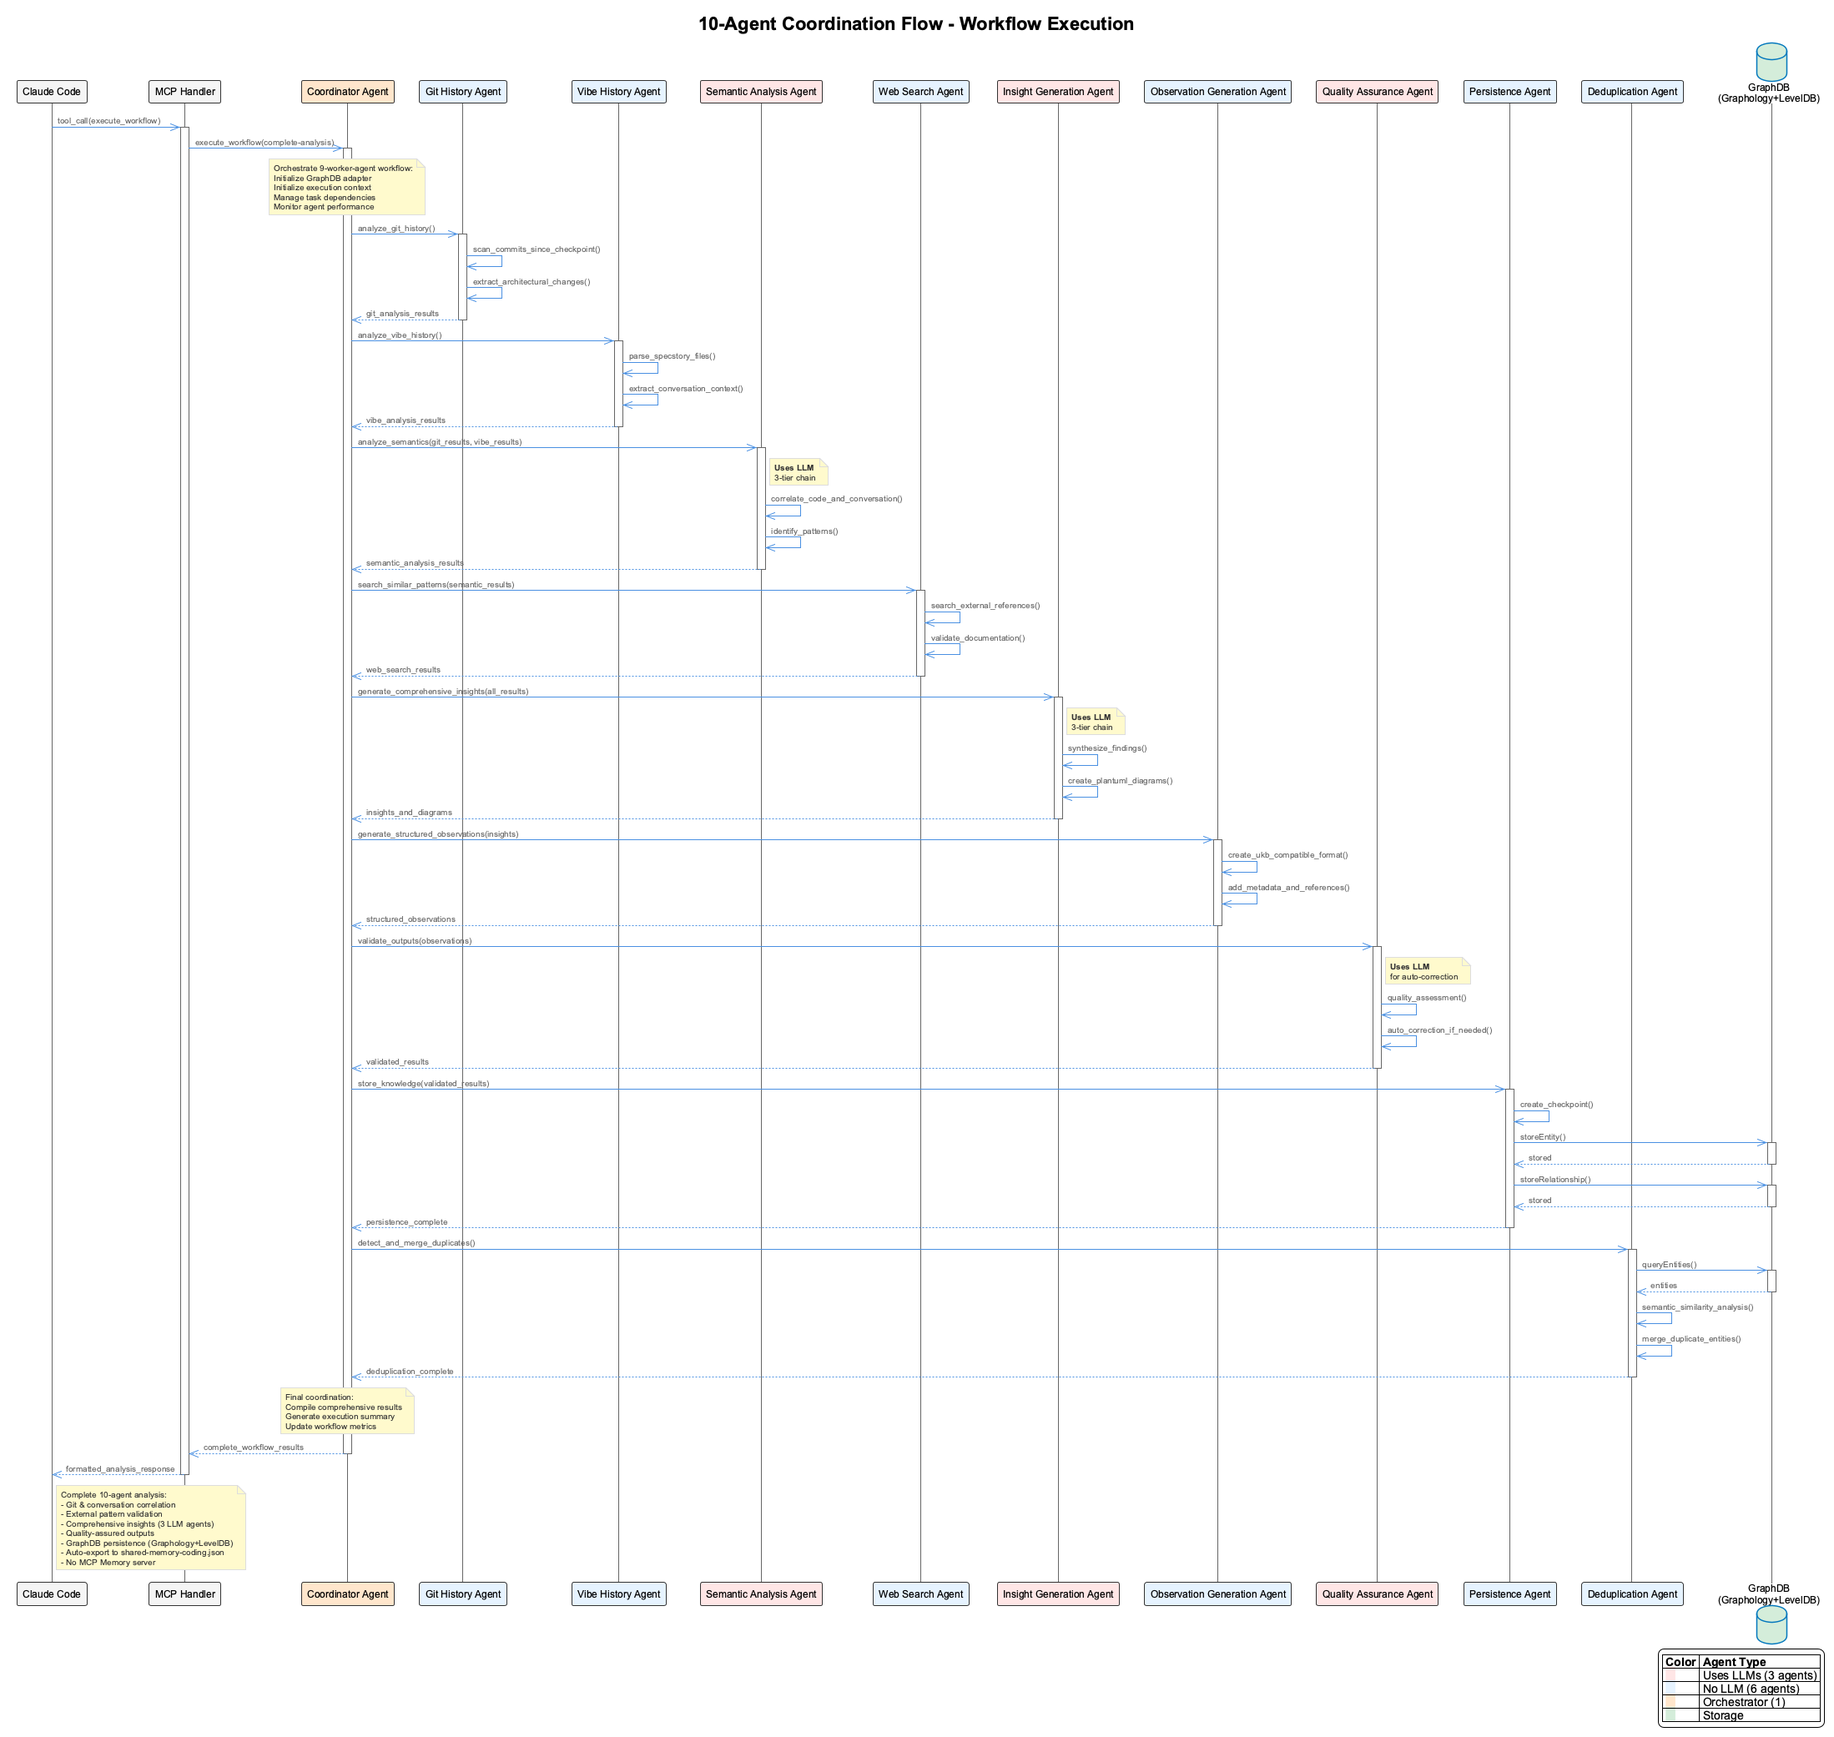
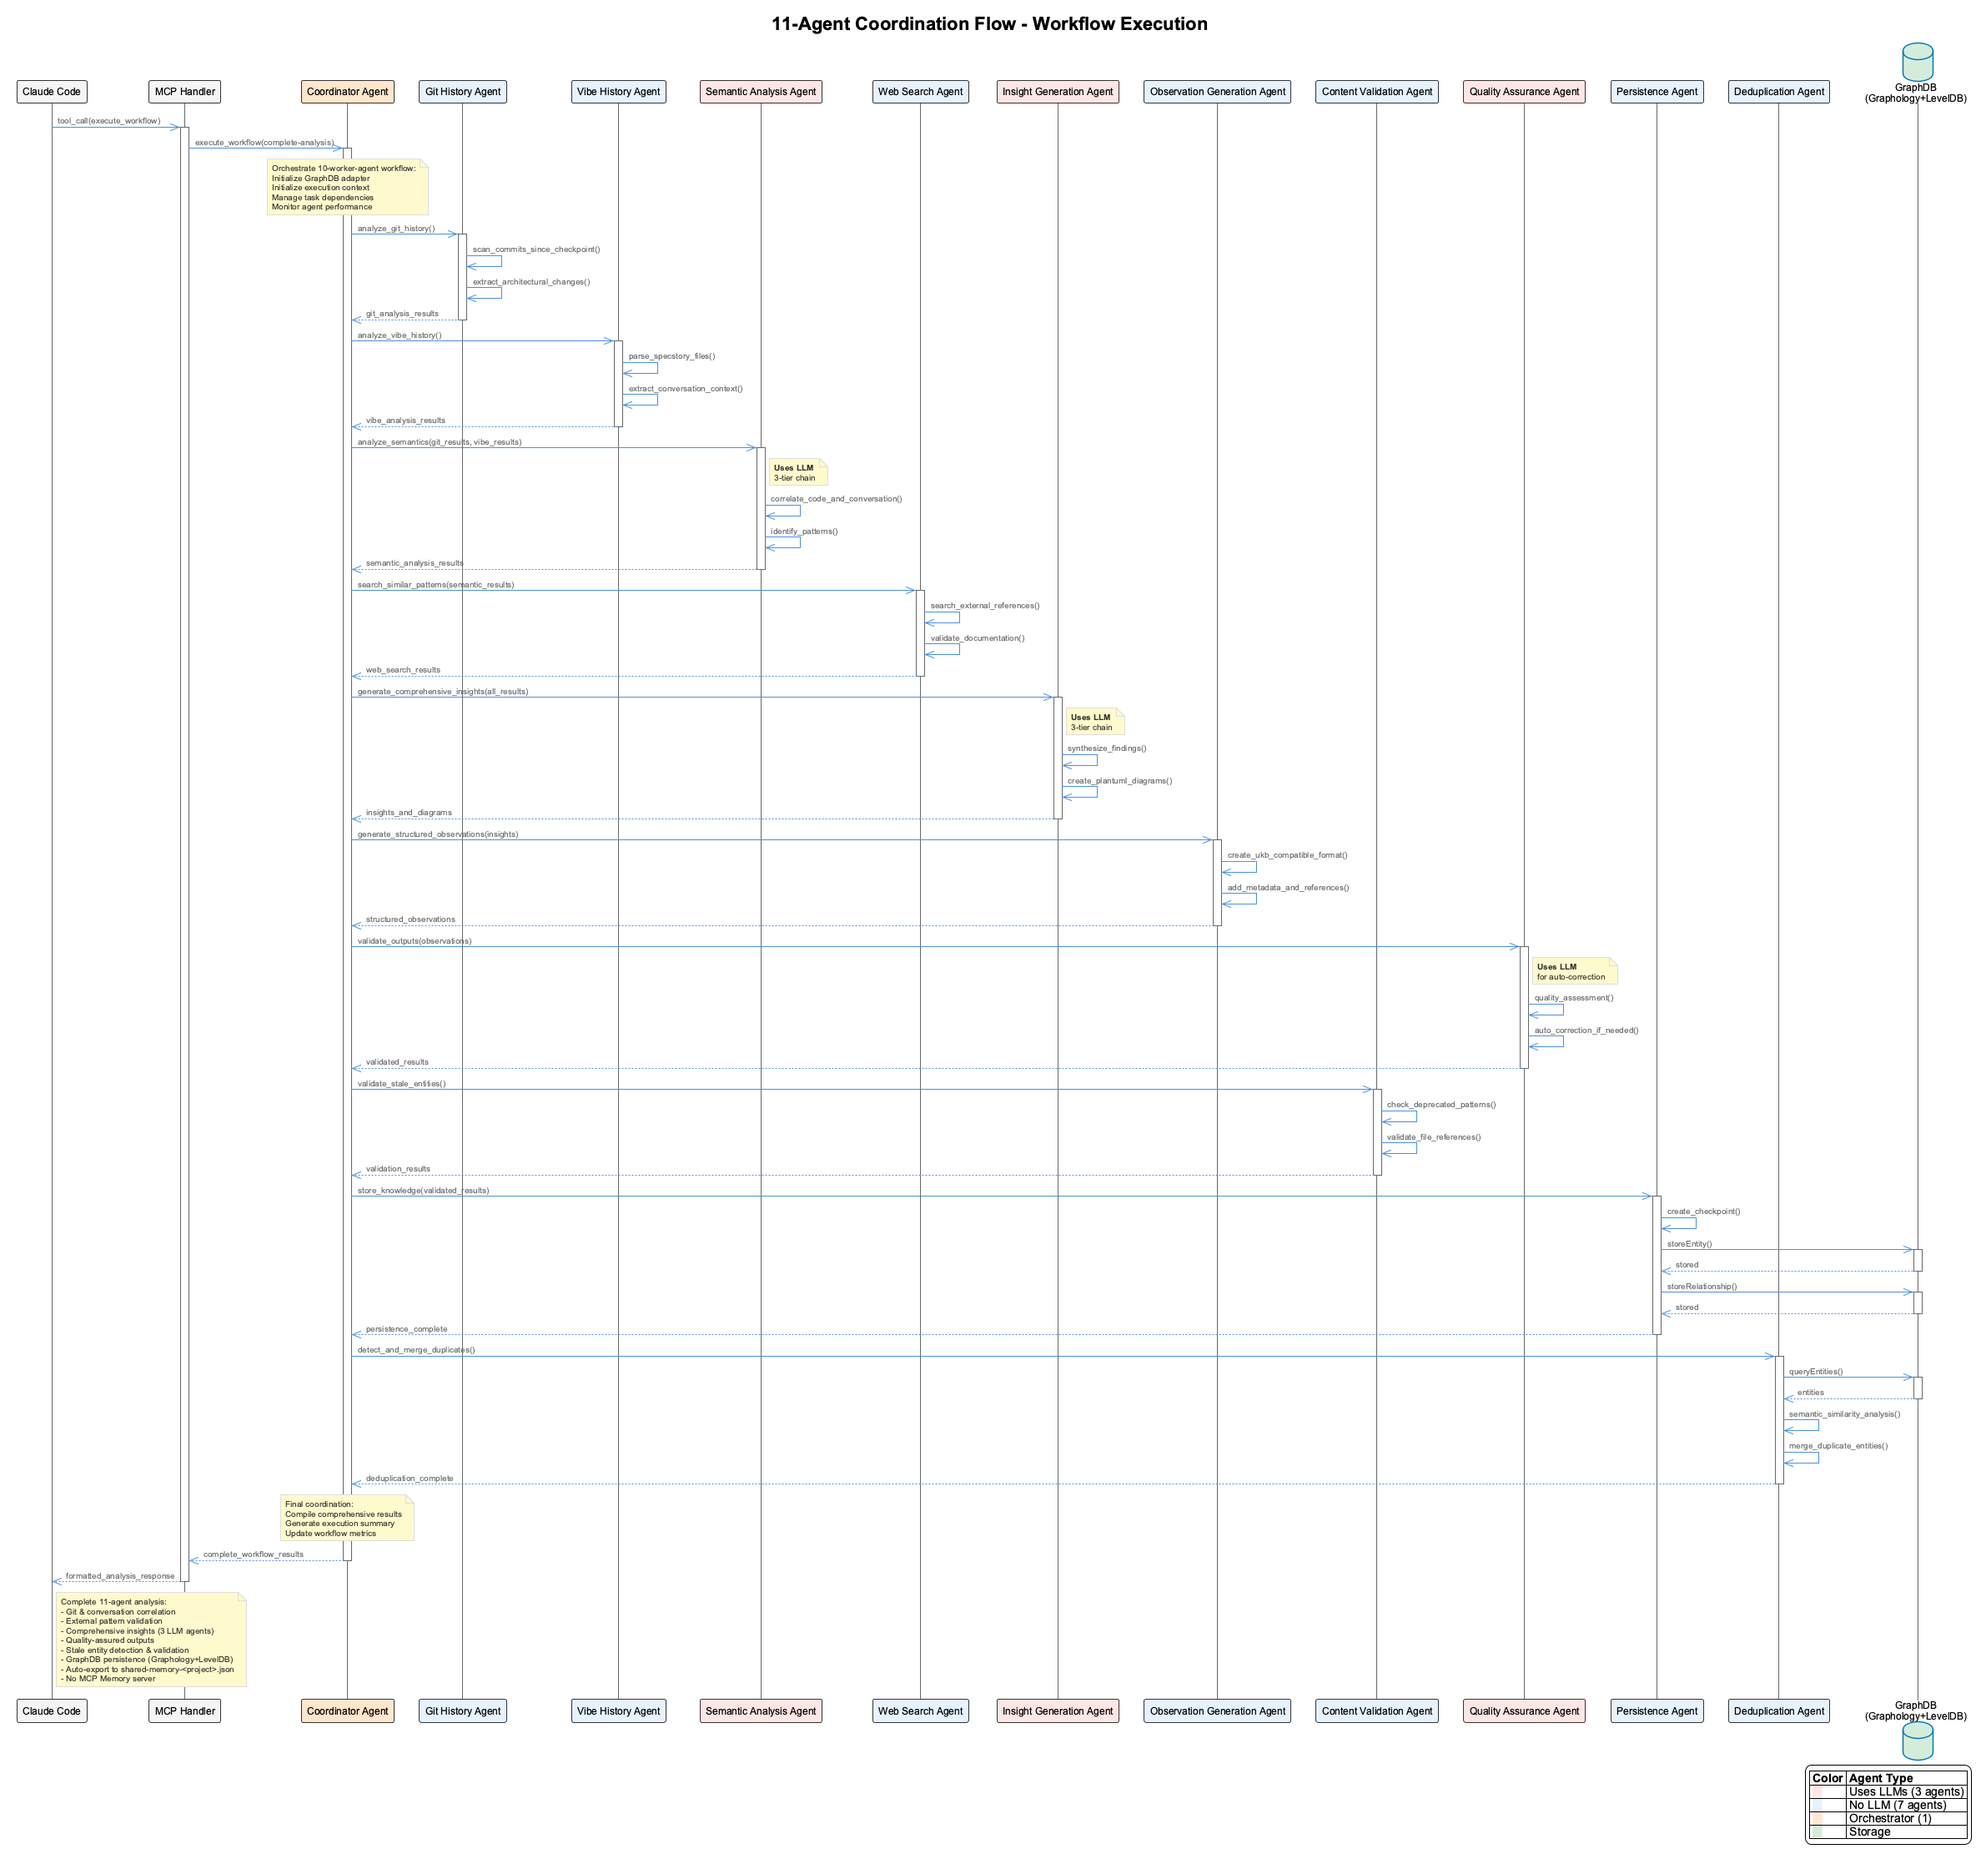
docs: updated

diff --git a/README.md b/README.md
@@ -4,9 +4,9 @@
 
 ## Overview
 
-This MCP server integrates seamlessly with Claude Code to provide advanced semantic analysis capabilities. Built entirely in Node.js with TypeScript, it offers **12 specialized tools** and **10 intelligent agents** with **Graphology+LevelDB graph database** persistence for comprehensive code and knowledge analysis.
+This MCP server integrates seamlessly with Claude Code to provide advanced semantic analysis capabilities. Built entirely in Node.js with TypeScript, it offers **12 specialized tools** and **11 intelligent agents** with **Graphology+LevelDB graph database** persistence for comprehensive code and knowledge analysis.
 
-### 🤖 Intelligent Agents (10 Total)
+### 🤖 Intelligent Agents (11 Total)
 
 #### Core Analysis Agents (8 Agents) - 🧠 LLM-Enhanced
 1. **`GitHistoryAgent`** - Analyzes git commits from checkpoint with architectural decisions
@@ -18,11 +18,12 @@ This MCP server integrates seamlessly with Claude Code to provide advanced seman
 7. **`QualityAssuranceAgent`** 🧠 - LLM semantic validation detecting conversation fragments, generic content, quality assessment
 8. **`PersistenceAgent`** - Persists entities to Graphology+LevelDB graph database with ontology-based classification
 
-#### Infrastructure Agents (1 Agent) - 🔢 Embedding-Enhanced
+#### Infrastructure Agents (2 Agents) - 🔢 Embedding-Enhanced
 9. **`DeduplicationAgent`** 🔢 - OpenAI embeddings (text-embedding-3-small) with cosine similarity for semantic duplicate detection
+10. **`ContentValidationAgent`** - Validates entity content accuracy, detects stale knowledge, and generates refresh recommendations
 
 #### Orchestration Agent (1 Agent)
-10. **`CoordinatorAgent`** - Workflow orchestration, task scheduling, and agent coordination with GraphDB integration
+11. **`CoordinatorAgent`** - Workflow orchestration, task scheduling, and agent coordination with GraphDB integration
 
 ## ✨ Key Features
 
@@ -34,7 +35,7 @@ This MCP server integrates seamlessly with Claude Code to provide advanced seman
 - **`analyze_repository`** - Repository-wide architecture analysis
 - **`extract_patterns`** - Reusable design pattern identification
 - **`create_ukb_entity_with_insight`** - Knowledge base entity creation
-- **`execute_workflow`** - Coordinated 10-agent workflows
+- **`execute_workflow`** - Coordinated 11-agent workflows
 - **`generate_documentation`** - Automated documentation generation
 - **`create_insight_report`** - Detailed analysis reports
 - **`generate_plantuml_diagrams`** - Architecture diagram generation
@@ -217,13 +218,13 @@ generate_lessons_learned(analysis_result, title?, metadata?) → LessonsLearned
 
 ## 🏗 Architecture Overview
 
-### 10-Agent Workflow System
+### 11-Agent Workflow System
 
 **CRITICAL**: The `CoordinatorAgent` orchestrates ALL agents through workflow definitions, not just a few. Agents don't call each other directly - data flows through the coordinator via step dependencies and result templating.
 
 ```mermaid
 graph TB
-    subgraph "10-Agent Semantic Analysis System"
+    subgraph "11-Agent Semantic Analysis System"
         COORD[1. CoordinatorAgent<br/>Orchestrates ALL agents via workflows<br/>+GraphDB Integration]
         GIT[2. GitHistoryAgent<br/>Git Commits Analysis]
         VIBE[3. VibeHistoryAgent<br/>Conversation Analysis]
@@ -234,6 +235,7 @@ graph TB
         QA[8. QualityAssuranceAgent<br/>Validation & Correction + LLM]
         PER[9. PersistenceAgent<br/>GraphDB Persistence]
         DEDUP[10. DeduplicationAgent<br/>Duplicate Detection]
+        CONTENT[11. ContentValidationAgent<br/>Stale Entity Detection]
     end
 
     subgraph "Storage Layer"
@@ -246,12 +248,14 @@ graph TB
     COORD -->|Step 4: Execute with {{semantic}}| WEB
     COORD -->|Step 5: Execute with {{semantic}} {{web}}| INS
     COORD -->|Step 6: Execute with {{insights}}| OBS
-    COORD -->|Step 7: Execute with {{observations}}| QA
-    COORD -->|Step 8: Execute with {{qa}}| PER
+    COORD -->|Step 7: Execute with {{observations}}| CONTENT
+    COORD -->|Step 8: Execute with {{content}}| QA
+    COORD -->|Step 9: Execute with {{qa}}| PER
     COORD -->|Infrastructure| DEDUP
 
     COORD -.->|Initializes & Provides| GRAPHDB
     PER -->|Stores Entities & Relations| GRAPHDB
+    CONTENT -.->|Queries for stale entities| GRAPHDB
 
     style GIT fill:#e6f3ff
     style VIBE fill:#e6f3ff
@@ -263,6 +267,7 @@ graph TB
     style PER fill:#e6f3ff
     style COORD fill:#fff2e6
     style DEDUP fill:#e8f4fd
+    style CONTENT fill:#e8f4fd
     style GRAPHDB fill:#d4edda
 ```
 
@@ -284,7 +289,7 @@ graph TB
         MCP[MCP Protocol Handler]
         TOOLS[Tool Layer<br/>12 Tools]
         COORD[CoordinatorAgent<br/>Orchestrator]
-        AGENTS[Agent Layer<br/>10 Worker Agents]
+        AGENTS[Agent Layer<br/>10 Worker Agents + ContentValidation]
         INTEG[Integration Layer]
     end
 
@@ -479,13 +484,14 @@ graph TD
     agents --> persistence["persistence-agent.ts"]
     agents --> coordinator["coordinator.ts"]
     agents --> dedup["deduplication.ts"]
-    
+    agents --> content["content-validation-agent.ts"]
+
     classDef mainFile fill:#e1f5fe,stroke:#0277bd,stroke-width:2px
     classDef agentFile fill:#f3e5f5,stroke:#7b1fa2,stroke-width:1px
     classDef folderStyle fill:#fff3e0,stroke:#ef6c00,stroke-width:2px
-    
+
     class index,server,tools,logging mainFile
-    class git,vibe,semantic,web,insight,observation,qa,persistence,coordinator,dedup agentFile
+    class git,vibe,semantic,web,insight,observation,qa,persistence,coordinator,dedup,content agentFile
     class agents folderStyle
 ```
 

diff --git a/docs/architecture/README.md b/docs/architecture/README.md
@@ -58,7 +58,7 @@ The MCP Semantic Analysis Server is a sophisticated Node.js application built wi
 - **`generate_lessons_learned`**: Lessons learned document creation
 
 ### 3. Agent Layer (11 Specialized Agents)
-**Purpose**: Implements the core business logic and intelligence
+**Purpose**: Implements the core business logic and intelligence (10 worker agents + 1 orchestrator)
 
 ![Agent Coordination Flow](../images/agent-coordination-flow.png)
 
@@ -70,6 +70,7 @@ The MCP Semantic Analysis Server is a sophisticated Node.js application built wi
 - Inter-agent communication coordination
 - Error recovery and rollback management
 - Performance monitoring and metrics
+- GraphDB initialization and lifecycle management
 
 **Key Features**:
 - Multi-step workflow execution
@@ -177,18 +178,6 @@ The MCP Semantic Analysis Server is a sophisticated Node.js application built wi
 
 #### Infrastructure Agents (2 Agents)
 
-##### SynchronizationAgent
-**Responsibilities**:
-- Multi-source data synchronization
-- Conflict resolution
-- Backup management
-
-**Key Features**:
-- Real-time sync monitoring
-- Conflict detection and resolution
-- Rollback capabilities
-- Data integrity validation
-
 ##### DeduplicationAgent
 **Responsibilities**:
 - Semantic duplicate detection
@@ -200,6 +189,19 @@ The MCP Semantic Analysis Server is a sophisticated Node.js application built wi
 - Configurable merge strategies
 - Batch processing optimization
 - Performance metrics
+
+##### ContentValidationAgent
+**Responsibilities**:
+- Entity content accuracy validation
+- Stale knowledge detection
+- Deprecated pattern identification
+- Refresh recommendations
+
+**Key Features**:
+- Validates observations against codebase state
+- Detects deprecated patterns (ukb, shared-memory.json, etc.)
+- Integrates with incremental-analysis workflow
+- Generates actionable refresh reports
 
 ## Data Flow Architecture
 
@@ -247,7 +249,7 @@ src/
 ├── server.ts                       # Core MCP server implementation
 ├── tools.ts                        # Tool definitions and handlers
 ├── logging.ts                      # Logging utilities
-└── agents/                         # Agent implementations (10 agents)
+└── agents/                         # Agent implementations (11 agents)
     ├── coordinator.ts              # Orchestration agent
     ├── git-history-agent.ts        # Core analysis agents
     ├── vibe-history-agent.ts
@@ -257,8 +259,8 @@ src/
     ├── observation-generation-agent.ts
     ├── quality-assurance-agent.ts
     ├── persistence-agent.ts
-    ├── synchronization.ts          # Infrastructure agents
-    ├── deduplication.ts
+    ├── deduplication.ts            # Infrastructure agents
+    ├── content-validation-agent.ts
     └── semantic-analyzer.ts        # Utility class (not an agent)
 ```
 

diff --git a/docs/architecture/agents.md b/docs/architecture/agents.md
@@ -1,6 +1,6 @@
 # Agent Architecture
 
-The semantic analysis system consists of 11 specialized agents, each responsible for specific aspects of code analysis and knowledge management.
+The semantic analysis system consists of 11 specialized agents (10 worker agents + 1 orchestrator), each responsible for specific aspects of code analysis and knowledge management.
 
 ## Agent Overview
 
@@ -116,18 +116,7 @@ The semantic analysis system consists of 11 specialized agents, each responsible
 
 **Location**: `src/agents/persistence-agent.ts`
 
-### 9. SynchronizationAgent
-**Purpose**: Multi-source data synchronization
-
-**Key Capabilities**:
-- Merges data from multiple sources
-- Resolves conflicts
-- Maintains data consistency
-- Handles concurrent updates
-
-**Location**: `src/agents/synchronization.ts`
-
-### 10. DeduplicationAgent 🔢
+### 9. DeduplicationAgent 🔢
 **Purpose**: Semantic duplicate detection and removal using OpenAI embeddings
 
 **Key Capabilities**:
@@ -141,6 +130,25 @@ The semantic analysis system consists of 11 specialized agents, each responsible
 **Embedding Model**: OpenAI text-embedding-3-small
 
 **Location**: `src/agents/deduplication.ts`
+
+### 10. ContentValidationAgent
+**Purpose**: Validate entity content accuracy and detect stale knowledge
+
+**Key Capabilities**:
+- Validates entity observations against current codebase state
+- Detects deprecated patterns (ukb references, shared-memory.json, etc.)
+- Checks file reference validity
+- Identifies stale entities requiring refresh
+- Generates refresh reports with actionable recommendations
+- Integrates with incremental-analysis workflow for automatic staleness detection
+
+**Key Methods**:
+- `validateEntityAccuracy()`: Full entity validation with scoring
+- `validateAndRefreshStaleEntities()`: Batch validation during workflows
+- `validateObservations()`: Check individual observations for staleness
+- `generateRefreshReport()`: Human-readable staleness reports
+
+**Location**: `src/agents/content-validation-agent.ts`
 
 ### 11. CoordinatorAgent
 **Purpose**: Orchestrate multi-agent workflows
